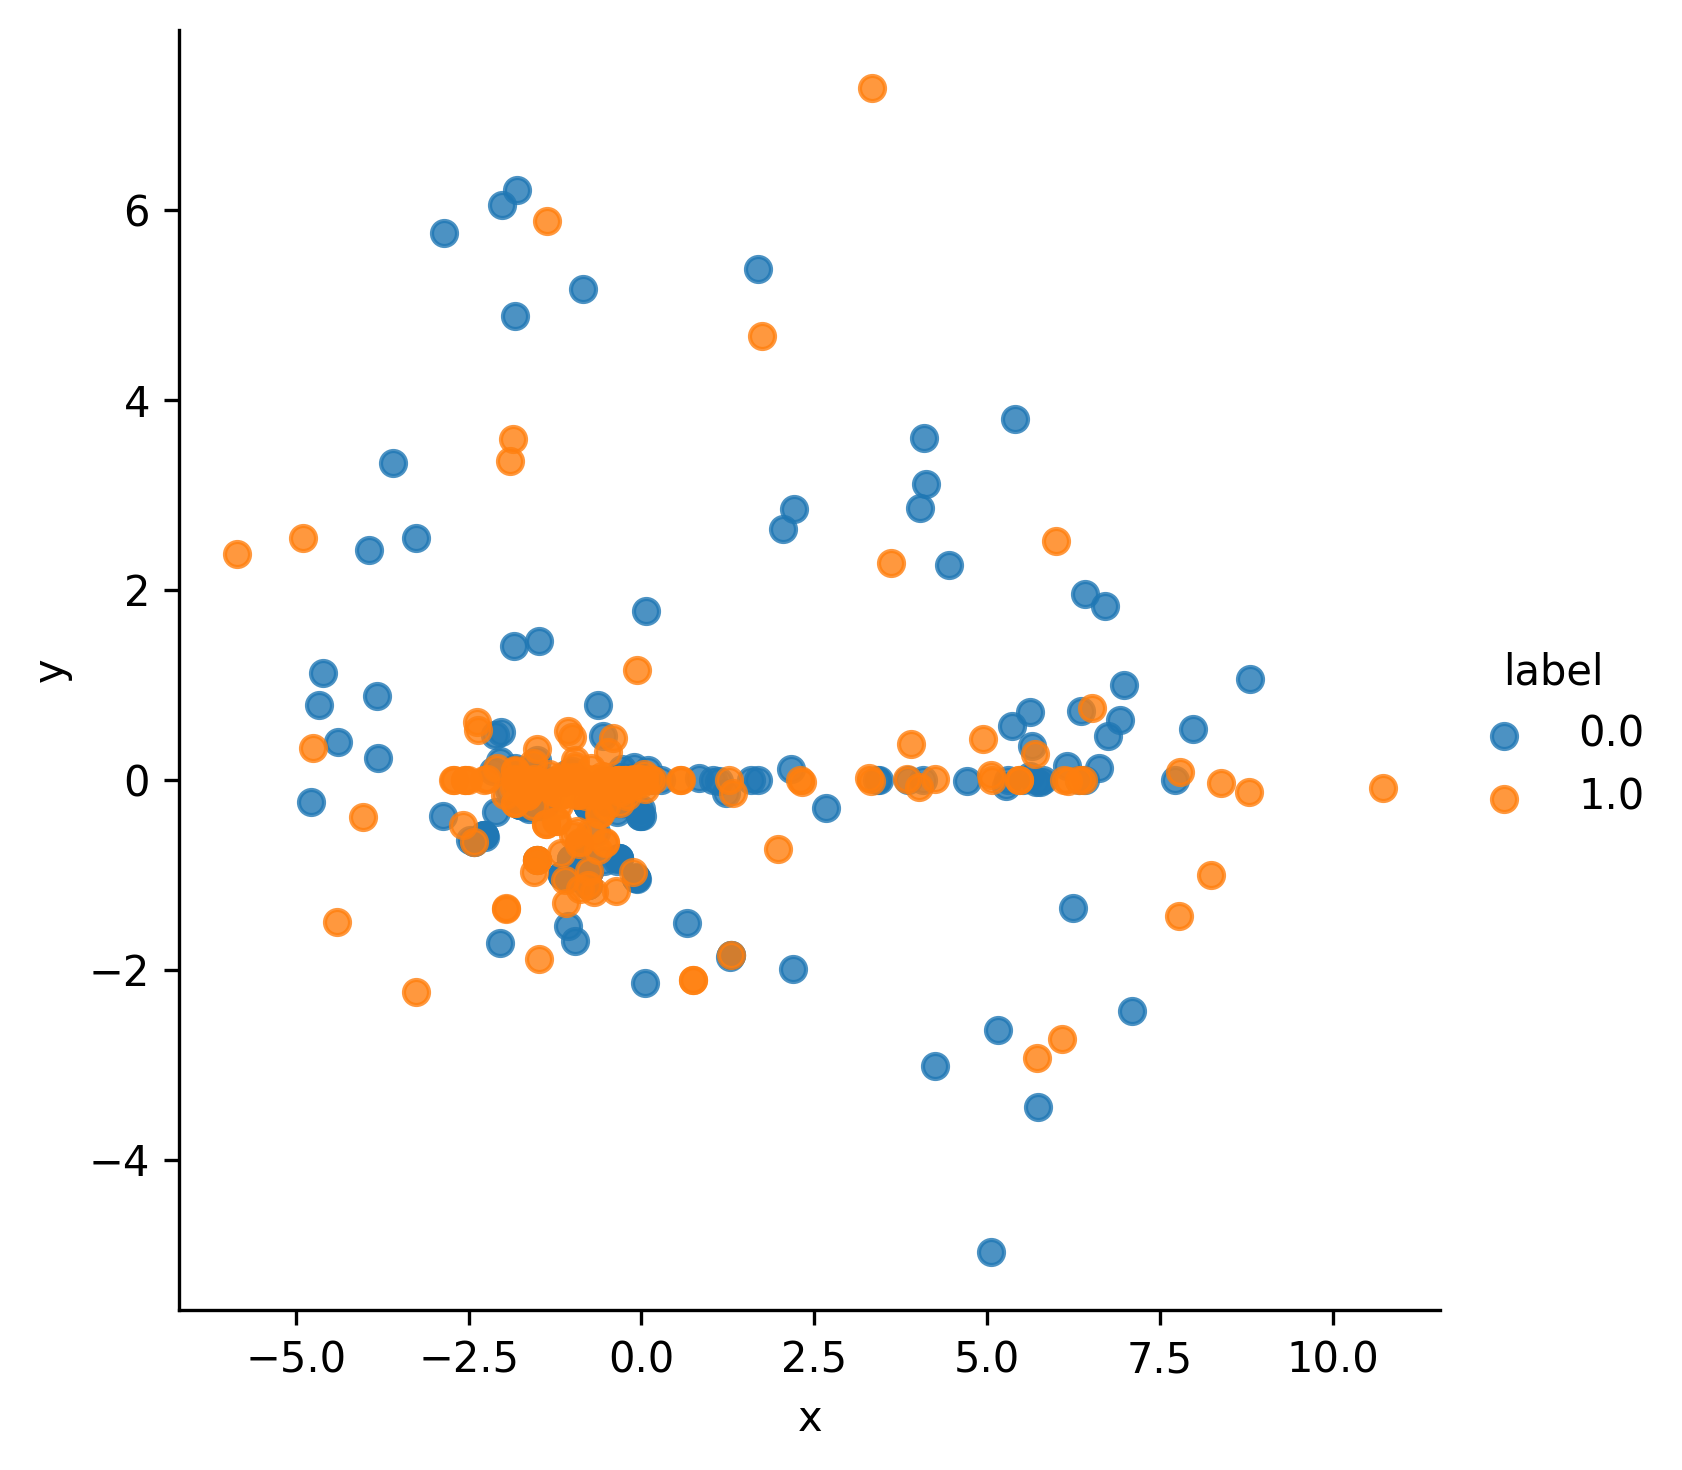
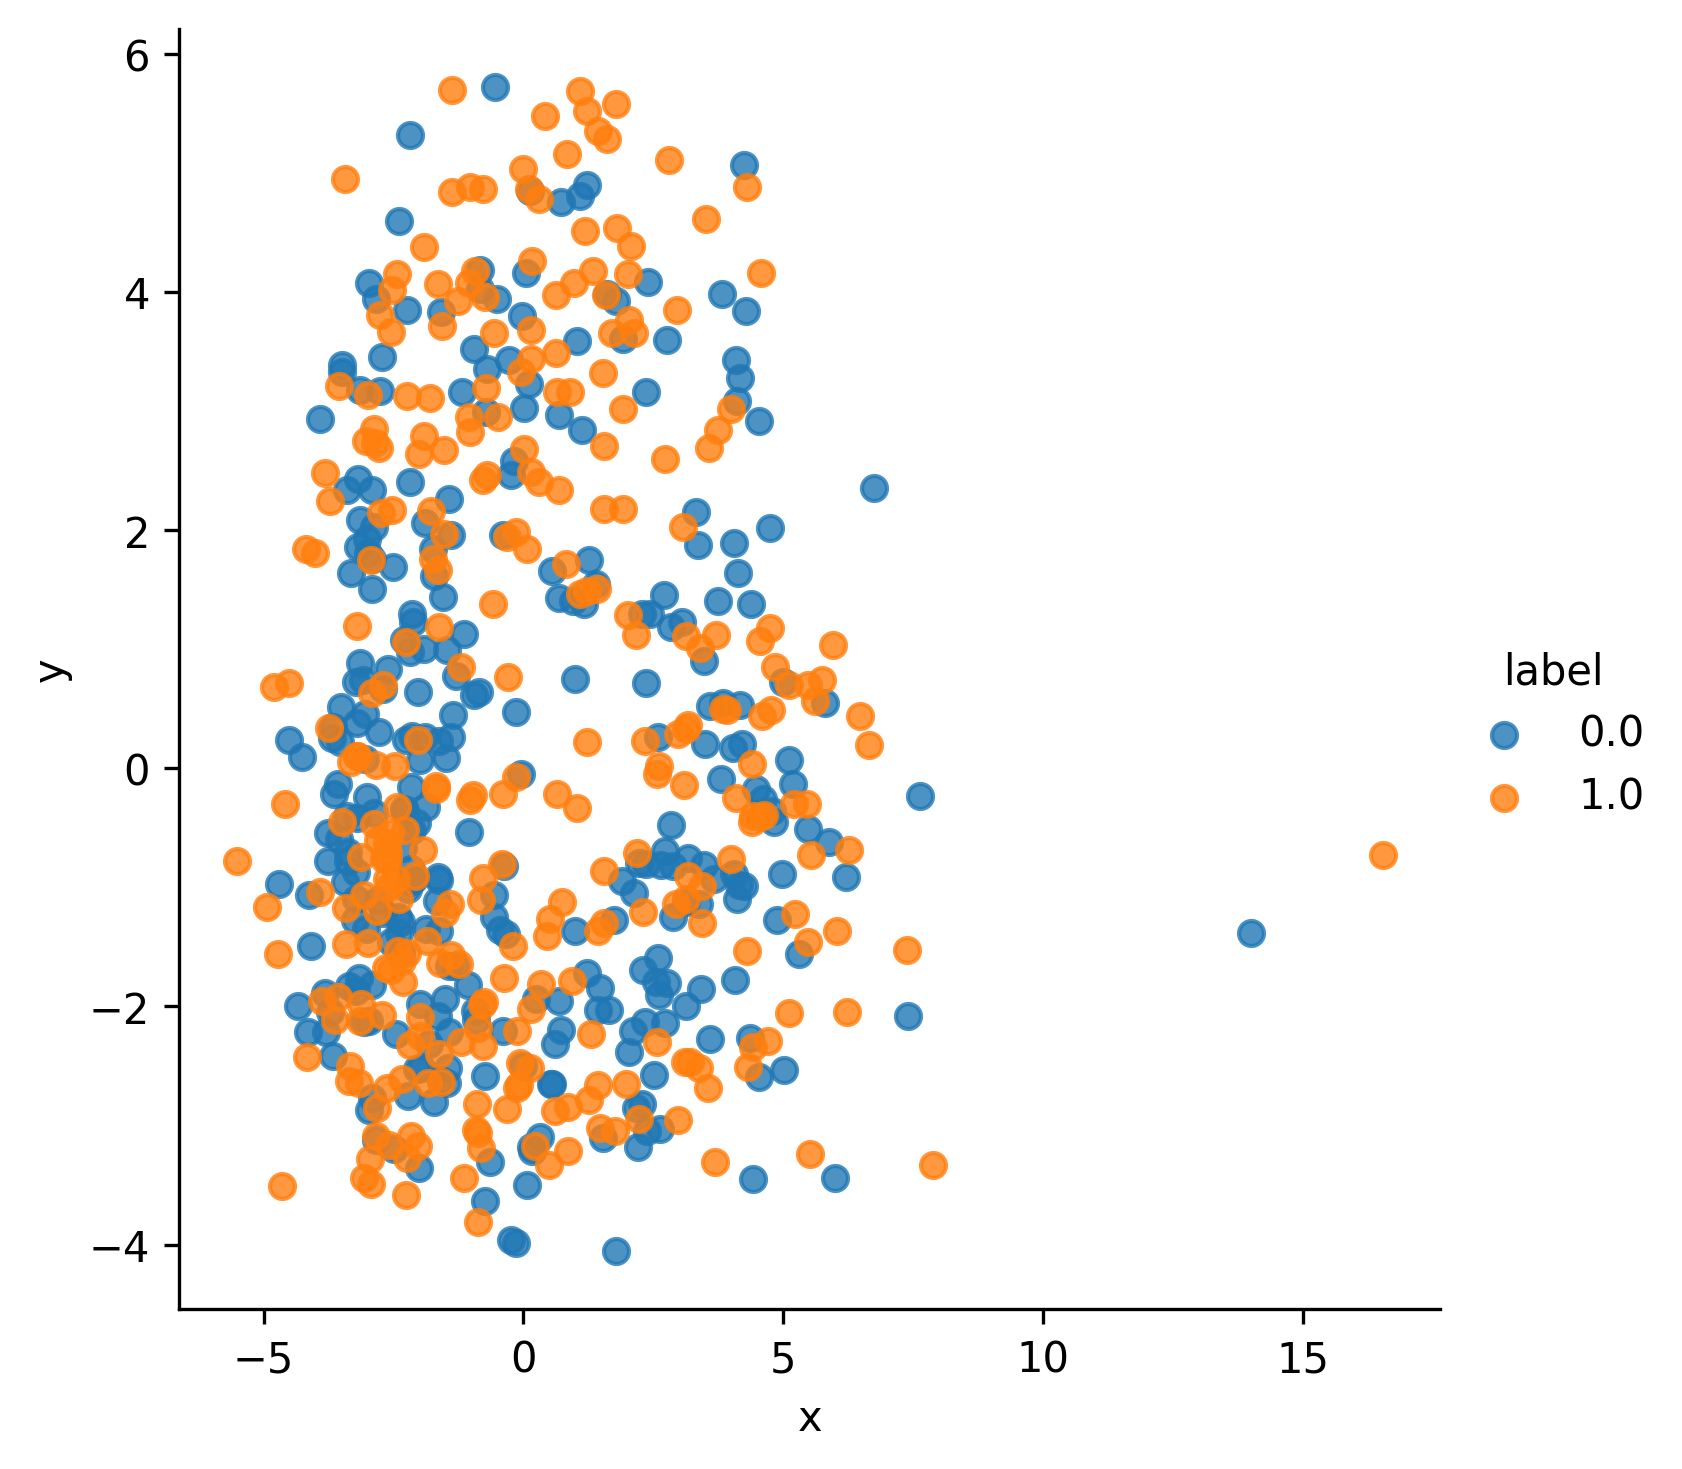
Tuned learning rate, set hidden to 128

diff --git a/.ipynb_checkpoints/train-checkpoint.py b/.ipynb_checkpoints/train-checkpoint.py
@@ -116,27 +116,29 @@ def train(config):
                 #     pca = PCA(n_components=1)
                 # else:
                 #     pca = PCA(n_components=2)
-                # newMean = pca.fit_transform(mean.detach().cpu().numpy())
-                # newVar = pca.fit_transform(log_var.detach().cpu().numpy())
-                
-                # for i, yi in enumerate(y):
-                #     id = len(tracker_epoch)
-                #     tracker_epoch[id]['x'] = newMean[i, 0].item()
-                #     tracker_epoch[id]['y'] = newMean[i, 1].item()
-                #     tracker_epoch[id]['label'] = yi.item()
+                if x.size(dim=0) != 1:
+                    pca = PCA(n_components=2)
+                    newMean = pca.fit_transform(mean.detach().cpu().numpy())
+                    newVar = pca.fit_transform(log_var.detach().cpu().numpy())
+
+                    for i, yi in enumerate(y):
+                        id = len(tracker_epoch)
+                        tracker_epoch[id]['x'] = newMean[i, 0].item()
+                        tracker_epoch[id]['y'] = newMean[i, 1].item()
+                        tracker_epoch[id]['label'] = yi.item()
         
         if args.tune:
             session.report(
                 {"loss": loss.item()},
             )
-        # else:
-        #     df = pd.DataFrame.from_dict(tracker_epoch, orient='index')
-        #     g = sns.lmplot(
-        #         x='x', y='y', hue='label', data=df.groupby('label').head(300),
-        #         fit_reg=False, legend=True)
-        #     g.savefig(os.path.join(
-        #         args.fig_root, "E{:d}-Dist.png".format(epoch)),
-        #         dpi=300)
+        else:
+            df = pd.DataFrame.from_dict(tracker_epoch, orient='index')
+            g = sns.lmplot(
+                x='x', y='y', hue='label', data=df.groupby('label').head(300),
+                fit_reg=False, legend=True)
+            g.savefig(os.path.join(
+                args.fig_root, "E{:d}-Dist.png".format(epoch)),
+                dpi=300)
     
 def main(args):
     if args.tune:
@@ -151,12 +153,12 @@ def main(args):
         # }
         
         config = {
-            "lr": args.learning_rate,
+            "lr": tune.grid_search([1.0, 0.1, 0.01, 0.001, 0.0005, 0.0001, 0.00005, 0.00001, 0.000005, 0.000001, 0.0000005, 0.0000001]),
             "batchSize": args.batch_size,
             "epochs": args.epochs,
             "hidden": args.hidden,
             "kld": args.kld,
-            "decode_hidden": tune.grid_search([2, 4, 8, 12, 24, 32, 48, 56]),
+            "decode_hidden": args.decode_hidden,
         }
 
         trainResources = tune.with_resources(train, resources={"cpu": 1, "gpu": 1})
@@ -188,7 +190,7 @@ def main(args):
         
         lastResult_df = result_grid.get_dataframe()
         lastResult_df = lastResult_df.sort_values(by=["loss"])
-        lastResult_df = lastResult_df[["loss", "config/lr", "config/batchSize", "config/hidden", "config/epochs", "config/kld", "config\decode_hidden",]]
+        lastResult_df = lastResult_df[["loss", "config/lr", "config/batchSize", "config/hidden", "config/epochs", "config/kld", "config/decode_hidden",]]
         print(lastResult_df.iloc[:15])
         
         bestResult_df = result_grid.get_dataframe(filter_metric="loss", filter_mode="min")
@@ -214,25 +216,32 @@ if __name__ == '__main__':
     
     bs = 8
     # bs = 1
-    lr = 0.090703
+    # lr = 0.090703
+    lr = 0.0005
     ep = 10
-    hd = 12
+    # hd = 12
+    hd = 128
     kld = 0.00001
-    d_hd = 8
+    # d_hd = 56
+    d_hd = 128
     
     parser = argparse.ArgumentParser()
     parser.add_argument("--seed", type=int, default=0)
+    
     parser.add_argument("--epochs", type=int, default=ep)
     parser.add_argument("--batch_size", type=int, default=bs)
     parser.add_argument("--learning_rate", type=float, default=lr)
     parser.add_argument("--hidden", type=int, default=hd)
     parser.add_argument("--kld", type=float, default=kld)
     parser.add_argument("--decode_hidden", type=int, default=d_hd)
+    
     parser.add_argument("--encoder_layer_sizes", type=list, default=[76, 32])
     parser.add_argument("--decoder_layer_sizes", type=list, default=[32, 76])
     parser.add_argument("--latent_size", type=int, default=2)
+    
     parser.add_argument("--print_every", type=int, default=100)
     parser.add_argument("--fig_root", type=str, default='newFigs')
+    
     parser.add_argument("--conditional", action='store_true')
     parser.add_argument("--tune", action='store_true')
 

diff --git a/train.py b/train.py
@@ -116,27 +116,29 @@ def train(config):
                 #     pca = PCA(n_components=1)
                 # else:
                 #     pca = PCA(n_components=2)
-                # newMean = pca.fit_transform(mean.detach().cpu().numpy())
-                # newVar = pca.fit_transform(log_var.detach().cpu().numpy())
-                
-                # for i, yi in enumerate(y):
-                #     id = len(tracker_epoch)
-                #     tracker_epoch[id]['x'] = newMean[i, 0].item()
-                #     tracker_epoch[id]['y'] = newMean[i, 1].item()
-                #     tracker_epoch[id]['label'] = yi.item()
+                if x.size(dim=0) != 1:
+                    pca = PCA(n_components=2)
+                    newMean = pca.fit_transform(mean.detach().cpu().numpy())
+                    newVar = pca.fit_transform(log_var.detach().cpu().numpy())
+
+                    for i, yi in enumerate(y):
+                        id = len(tracker_epoch)
+                        tracker_epoch[id]['x'] = newMean[i, 0].item()
+                        tracker_epoch[id]['y'] = newMean[i, 1].item()
+                        tracker_epoch[id]['label'] = yi.item()
         
         if args.tune:
             session.report(
                 {"loss": loss.item()},
             )
-        # else:
-        #     df = pd.DataFrame.from_dict(tracker_epoch, orient='index')
-        #     g = sns.lmplot(
-        #         x='x', y='y', hue='label', data=df.groupby('label').head(300),
-        #         fit_reg=False, legend=True)
-        #     g.savefig(os.path.join(
-        #         args.fig_root, "E{:d}-Dist.png".format(epoch)),
-        #         dpi=300)
+        else:
+            df = pd.DataFrame.from_dict(tracker_epoch, orient='index')
+            g = sns.lmplot(
+                x='x', y='y', hue='label', data=df.groupby('label').head(300),
+                fit_reg=False, legend=True)
+            g.savefig(os.path.join(
+                args.fig_root, "E{:d}-Dist.png".format(epoch)),
+                dpi=300)
     
 def main(args):
     if args.tune:
@@ -151,12 +153,12 @@ def main(args):
         # }
         
         config = {
-            "lr": args.learning_rate,
+            "lr": tune.grid_search([1.0, 0.1, 0.01, 0.001, 0.0005, 0.0001, 0.00005, 0.00001, 0.000005, 0.000001, 0.0000005, 0.0000001]),
             "batchSize": args.batch_size,
             "epochs": args.epochs,
             "hidden": args.hidden,
             "kld": args.kld,
-            "decode_hidden": tune.grid_search([2, 4, 8, 12, 24, 32, 48, 56]),
+            "decode_hidden": args.decode_hidden,
         }
 
         trainResources = tune.with_resources(train, resources={"cpu": 1, "gpu": 1})
@@ -188,7 +190,7 @@ def main(args):
         
         lastResult_df = result_grid.get_dataframe()
         lastResult_df = lastResult_df.sort_values(by=["loss"])
-        lastResult_df = lastResult_df[["loss", "config/lr", "config/batchSize", "config/hidden", "config/epochs", "config/kld", "config\decode_hidden",]]
+        lastResult_df = lastResult_df[["loss", "config/lr", "config/batchSize", "config/hidden", "config/epochs", "config/kld", "config/decode_hidden",]]
         print(lastResult_df.iloc[:15])
         
         bestResult_df = result_grid.get_dataframe(filter_metric="loss", filter_mode="min")
@@ -214,25 +216,32 @@ if __name__ == '__main__':
     
     bs = 8
     # bs = 1
-    lr = 0.090703
+    # lr = 0.090703
+    lr = 0.0005
     ep = 10
-    hd = 12
+    # hd = 12
+    hd = 128
     kld = 0.00001
-    d_hd = 8
+    # d_hd = 56
+    d_hd = 128
     
     parser = argparse.ArgumentParser()
     parser.add_argument("--seed", type=int, default=0)
+    
     parser.add_argument("--epochs", type=int, default=ep)
     parser.add_argument("--batch_size", type=int, default=bs)
     parser.add_argument("--learning_rate", type=float, default=lr)
     parser.add_argument("--hidden", type=int, default=hd)
     parser.add_argument("--kld", type=float, default=kld)
     parser.add_argument("--decode_hidden", type=int, default=d_hd)
+    
     parser.add_argument("--encoder_layer_sizes", type=list, default=[76, 32])
     parser.add_argument("--decoder_layer_sizes", type=list, default=[32, 76])
     parser.add_argument("--latent_size", type=int, default=2)
+    
     parser.add_argument("--print_every", type=int, default=100)
     parser.add_argument("--fig_root", type=str, default='newFigs')
+    
     parser.add_argument("--conditional", action='store_true')
     parser.add_argument("--tune", action='store_true')
 

diff --git a/.ipynb_checkpoints/models-checkpoint.py b/.ipynb_checkpoints/models-checkpoint.py
@@ -109,7 +109,7 @@ class Decoder(nn.Module):
         # self.output_layer = nn.Linear(layer_sizes[1], layer_sizes[1] * 48)
         self.output_layer = nn.Linear(hidden, 48*hidden)
         
-        self.lstm = nn.LSTM(input_size=12, hidden_size=decode_hidden, num_layers=1, batch_first=True)
+        self.lstm = nn.LSTM(input_size=hidden, hidden_size=decode_hidden, num_layers=1, batch_first=True)
         
         self.output_layer2 = nn.Linear(decode_hidden, 76)
 

diff --git a/models.py b/models.py
@@ -109,7 +109,7 @@ class Decoder(nn.Module):
         # self.output_layer = nn.Linear(layer_sizes[1], layer_sizes[1] * 48)
         self.output_layer = nn.Linear(hidden, 48*hidden)
         
-        self.lstm = nn.LSTM(input_size=12, hidden_size=decode_hidden, num_layers=1, batch_first=True)
+        self.lstm = nn.LSTM(input_size=hidden, hidden_size=decode_hidden, num_layers=1, batch_first=True)
         
         self.output_layer2 = nn.Linear(decode_hidden, 76)
 
